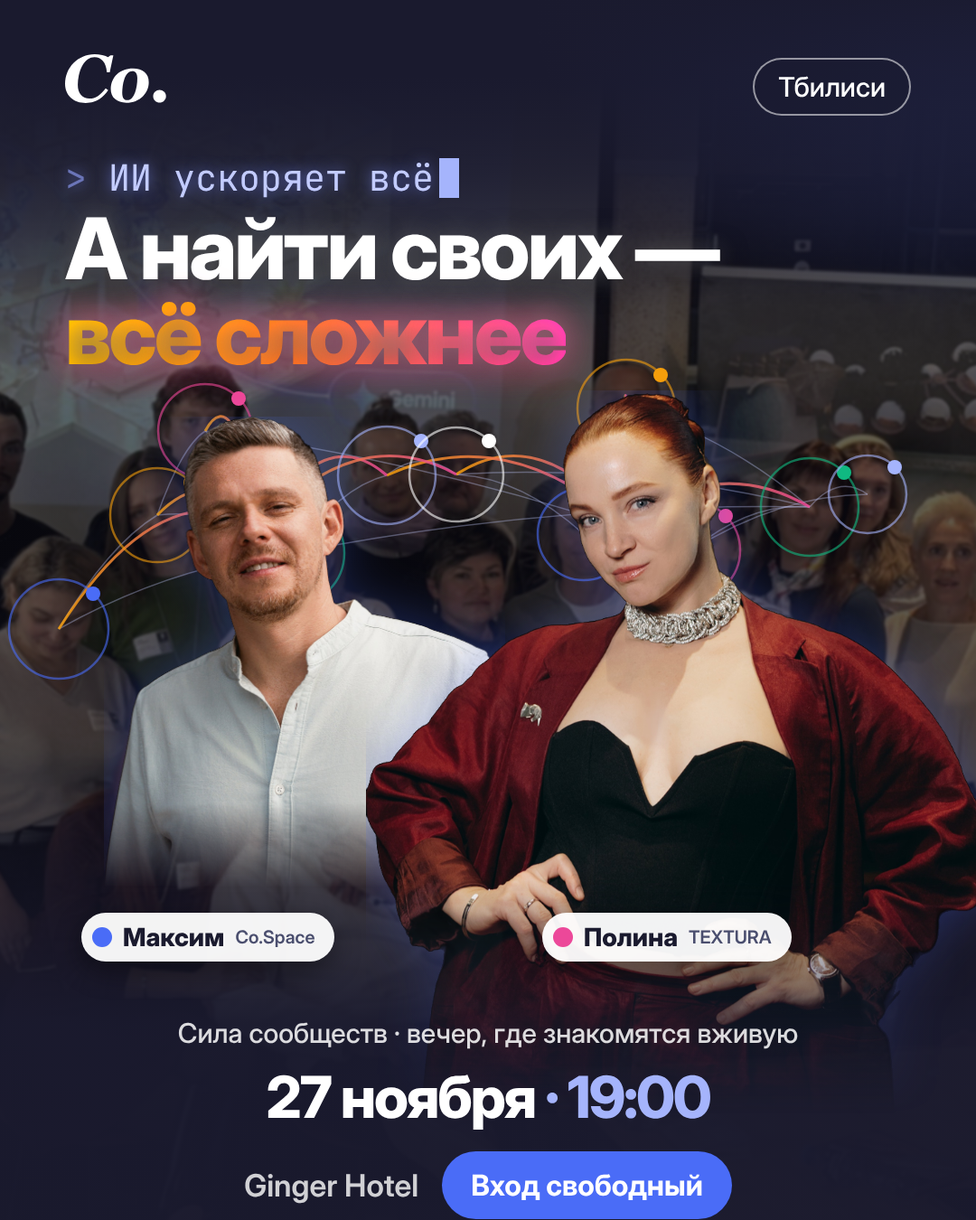
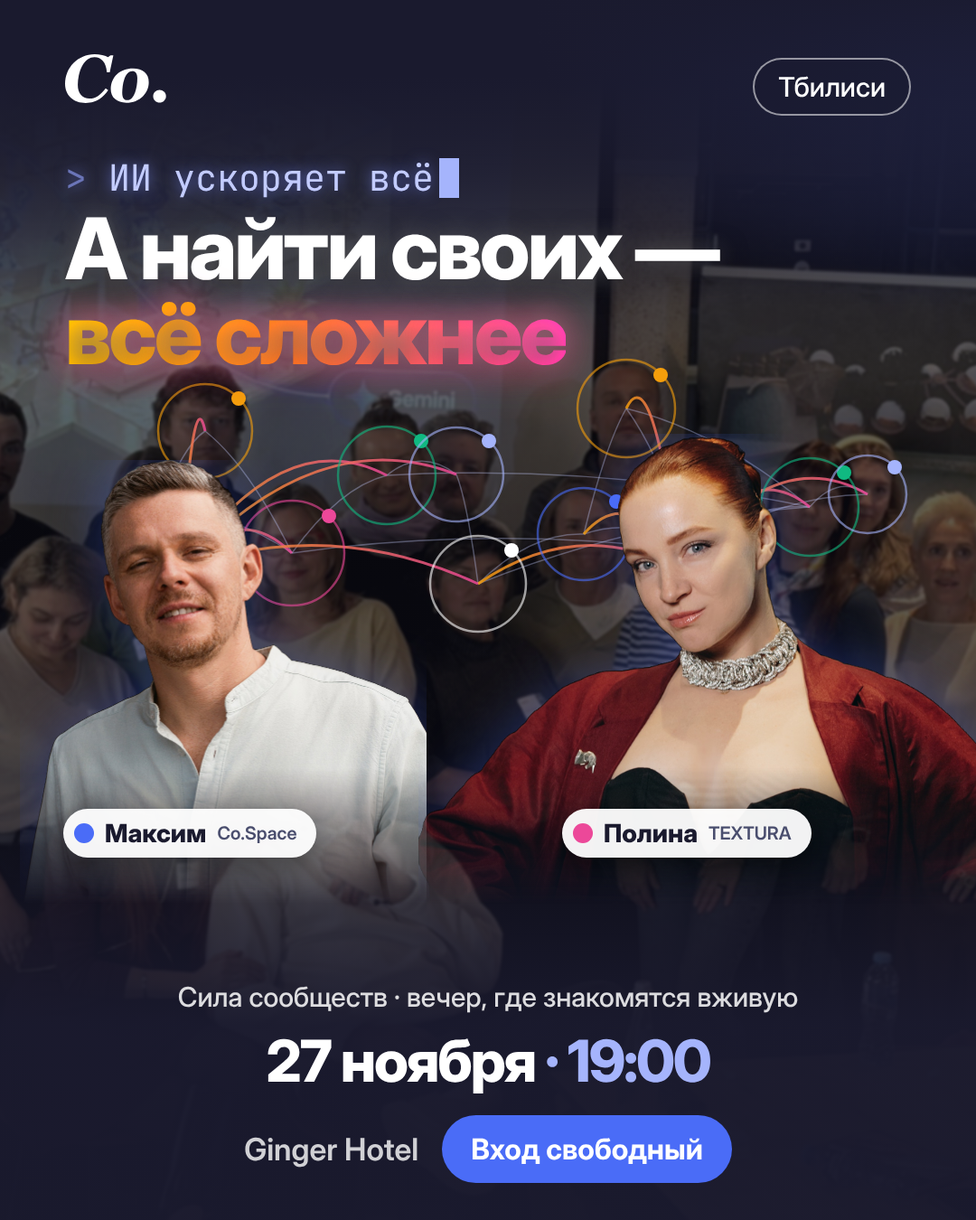
Афиша v3: Полина и Максим рядом на одном уровне, одинаковое затухание
Claude-Session: https://claude.ai/code/session_01EUhV7vaX3V2s8FuVCAhgM5

Changed region(s): [[0.0306, 0.3111, 1.0, 1.0]]

diff --git a/creatives/src/poster/poster3-4x5.html b/creatives/src/poster/poster3-4x5.html
@@ -21,7 +21,7 @@ h1 em{font-style:normal;background:linear-gradient(90deg,#FFC21A 0%,#FF7A2F 45%,
  padding:10px 22px 10px 12px;font-size:28px;font-weight:800;box-shadow:0 10px 30px rgba(0,0,0,.4)}
 .name i{width:22px;height:22px;border-radius:50%;display:block}
 .name small{font-size:20px;font-weight:600;color:#4A4E6E}
-.info{position:absolute;left:0;right:0;top:1125px;text-align:center}
+.info{position:absolute;left:0;right:0;top:1085px;text-align:center}
 .lead{font-size:30px;color:rgba(255,255,255,.85);font-weight:500;margin-bottom:14px}
 .date{font-size:64px;font-weight:800;letter-spacing:-2px}
 .date span{color:#A5B4FC}
@@ -29,10 +29,10 @@ h1 em{font-style:normal;background:linear-gradient(90deg,#FFC21A 0%,#FF7A2F 45%,
 .place{font-size:34px;color:rgba(255,255,255,.8);font-weight:600}
 .cta{background:#4A6CF7;border-radius:44px;padding:18px 32px;font-size:32px;font-weight:700}
 </style></head><body><img class="bg" src="group.src.jpg"><div class="shade"></div>
-<svg class="net" width="1080" height="1350" viewBox="0 0 1080 1350"><defs><linearGradient id="gl" x1="0" x2="1"><stop offset="0" stop-color="#F59E0B"/><stop offset="1" stop-color="#EC4899"/></linearGradient></defs><path d="M65,696 Q120,603 174,570" stroke="#C7CEFF" stroke-width="1.5" fill="none" opacity=".35"/><path d="M896,561 Q928,524 960,547" stroke="#C7CEFF" stroke-width="1.5" fill="none" opacity=".35"/><path d="M174,570 Q201,494 227,477" stroke="#C7CEFF" stroke-width="1.5" fill="none" opacity=".35"/><path d="M323,612 Q376,539 428,526" stroke="#C7CEFF" stroke-width="1.5" fill="none" opacity=".35"/><path d="M646,591 Q706,570 765,609" stroke="#C7CEFF" stroke-width="1.5" fill="none" opacity=".35"/><path d="M65,696 Q194,624 323,612" stroke="#C7CEFF" stroke-width="1.5" fill="none" opacity=".35"/><path d="M765,609 Q862,548 960,547" stroke="#C7CEFF" stroke-width="1.5" fill="none" opacity=".35"/><path d="M227,477 Q275,515 323,612" stroke="#C7CEFF" stroke-width="1.5" fill="none" opacity=".35"/><path d="M646,591 Q670,492 693,452" stroke="#C7CEFF" stroke-width="1.5" fill="none" opacity=".35"/><path d="M428,526 Q466,495 505,525" stroke="#C7CEFF" stroke-width="1.5" fill="none" opacity=".35"/><path d="M765,609 Q831,555 896,561" stroke="#C7CEFF" stroke-width="1.5" fill="none" opacity=".35"/><path d="M323,612 Q610,556 896,561" stroke="#C7CEFF" stroke-width="1.5" fill="none" opacity=".35"/><path d="M505,525 Q576,528 646,591" stroke="#C7CEFF" stroke-width="1.5" fill="none" opacity=".35"/><path d="M693,452 Q795,477 896,561" stroke="#C7CEFF" stroke-width="1.5" fill="none" opacity=".35"/><path d="M505,525 Q700,513 896,561" stroke="#C7CEFF" stroke-width="1.5" fill="none" opacity=".35"/><path d="M174,570 Q249,561 323,612" stroke="#C7CEFF" stroke-width="1.5" fill="none" opacity=".35"/><path d="M693,452 Q729,501 765,609" stroke="#C7CEFF" stroke-width="1.5" fill="none" opacity=".35"/><path d="M227,477 Q496,513 765,609" stroke="#C7CEFF" stroke-width="1.5" fill="none" opacity=".35"/><path d="M690,580 Q668,520 646,591" stroke="url(#gl)" stroke-width="3" fill="none" opacity=".85"/><path d="M690,580 Q728,520 765,609" stroke="url(#gl)" stroke-width="3" fill="none" opacity=".85"/><path d="M690,580 Q691,392 693,452" stroke="url(#gl)" stroke-width="3" fill="none" opacity=".85"/><path d="M690,580 Q597,465 505,525" stroke="url(#gl)" stroke-width="3" fill="none" opacity=".85"/><path d="M690,580 Q793,501 896,561" stroke="url(#gl)" stroke-width="3" fill="none" opacity=".85"/><path d="M690,580 Q559,466 428,526" stroke="url(#gl)" stroke-width="3" fill="none" opacity=".85"/><path d="M290,580 Q307,520 323,612" stroke="url(#gl)" stroke-width="3" fill="none" opacity=".85"/><path d="M290,580 Q232,510 174,570" stroke="url(#gl)" stroke-width="3" fill="none" opacity=".85"/><path d="M290,580 Q259,417 227,477" stroke="url(#gl)" stroke-width="3" fill="none" opacity=".85"/><path d="M290,580 Q359,466 428,526" stroke="url(#gl)" stroke-width="3" fill="none" opacity=".85"/><path d="M290,580 Q397,465 505,525" stroke="url(#gl)" stroke-width="3" fill="none" opacity=".85"/><path d="M290,580 Q177,520 65,696" stroke="url(#gl)" stroke-width="3" fill="none" opacity=".85"/><circle cx="65" cy="696" r="55" fill="none" stroke="#4A6CF7" stroke-width="2.5" opacity=".6"/><circle cx="103" cy="657" r="8" fill="#4A6CF7"/><circle cx="174" cy="570" r="52" fill="none" stroke="#F59E0B" stroke-width="2.5" opacity=".6"/><circle cx="211" cy="534" r="8" fill="#F59E0B"/><circle cx="227" cy="477" r="52" fill="none" stroke="#EC4899" stroke-width="2.5" opacity=".6"/><circle cx="264" cy="441" r="8" fill="#EC4899"/><circle cx="323" cy="612" r="58" fill="none" stroke="#10B981" stroke-width="2.5" opacity=".6"/><circle cx="364" cy="571" r="8" fill="#10B981"/><circle cx="428" cy="526" r="54" fill="none" stroke="#A5B4FC" stroke-width="2.5" opacity=".6"/><circle cx="466" cy="488" r="8" fill="#A5B4FC"/><circle cx="505" cy="525" r="52" fill="none" stroke="#FFFFFF" stroke-width="2.5" opacity=".6"/><circle cx="541" cy="488" r="8" fill="#FFFFFF"/><circle cx="646" cy="591" r="51" fill="none" stroke="#4A6CF7" stroke-width="2.5" opacity=".6"/><circle cx="682" cy="555" r="8" fill="#4A6CF7"/><circle cx="693" cy="452" r="54" fill="none" stroke="#F59E0B" stroke-width="2.5" opacity=".6"/><circle cx="731" cy="415" r="8" fill="#F59E0B"/><circle cx="765" cy="609" r="54" fill="none" stroke="#EC4899" stroke-width="2.5" opacity=".6"/><circle cx="803" cy="571" r="8" fill="#EC4899"/><circle cx="896" cy="561" r="54" fill="none" stroke="#10B981" stroke-width="2.5" opacity=".6"/><circle cx="934" cy="523" r="8" fill="#10B981"/><circle cx="960" cy="547" r="43" fill="none" stroke="#A5B4FC" stroke-width="2.5" opacity=".6"/><circle cx="990" cy="517" r="8" fill="#A5B4FC"/></svg>
-<div class="person" style="left:115px;top:461px;height:521px;-webkit-mask-image:linear-gradient(180deg,#000 82%,transparent 100%)"><img src="max_cut.png"></div><div class="person" style="left:405px;top:432px;height:870px;"><img src="polina_cut.png"></div>
-<div class="name" style="left:600px;top:1010px"><i style="background:#EC4899"></i>Полина <small>TEXTURA</small></div>
-<div class="name" style="left:90px;top:1010px"><i style="background:#4A6CF7"></i>Максим <small>Co.Space</small></div>
+<svg class="net" width="1080" height="1350" viewBox="0 0 1080 1350"><defs><linearGradient id="gl" x1="0" x2="1"><stop offset="0" stop-color="#F59E0B"/><stop offset="1" stop-color="#EC4899"/></linearGradient></defs><path d="M174,570 Q201,494 227,477" stroke="#C7CEFF" stroke-width="1.5" fill="none" opacity=".35"/><path d="M896,561 Q928,524 960,547" stroke="#C7CEFF" stroke-width="1.5" fill="none" opacity=".35"/><path d="M227,477 Q275,515 323,612" stroke="#C7CEFF" stroke-width="1.5" fill="none" opacity=".35"/><path d="M428,526 Q466,495 505,525" stroke="#C7CEFF" stroke-width="1.5" fill="none" opacity=".35"/><path d="M646,591 Q706,570 765,609" stroke="#C7CEFF" stroke-width="1.5" fill="none" opacity=".35"/><path d="M765,609 Q862,548 960,547" stroke="#C7CEFF" stroke-width="1.5" fill="none" opacity=".35"/><path d="M323,612 Q376,539 428,526" stroke="#C7CEFF" stroke-width="1.5" fill="none" opacity=".35"/><path d="M646,591 Q670,492 693,452" stroke="#C7CEFF" stroke-width="1.5" fill="none" opacity=".35"/><path d="M174,570 Q249,561 323,612" stroke="#C7CEFF" stroke-width="1.5" fill="none" opacity=".35"/><path d="M505,525 Q517,555 529,646" stroke="#C7CEFF" stroke-width="1.5" fill="none" opacity=".35"/><path d="M765,609 Q831,555 896,561" stroke="#C7CEFF" stroke-width="1.5" fill="none" opacity=".35"/><path d="M529,646 Q587,589 646,591" stroke="#C7CEFF" stroke-width="1.5" fill="none" opacity=".35"/><path d="M428,526 Q662,513 896,561" stroke="#C7CEFF" stroke-width="1.5" fill="none" opacity=".35"/><path d="M693,452 Q795,477 896,561" stroke="#C7CEFF" stroke-width="1.5" fill="none" opacity=".35"/><path d="M529,646 Q712,573 896,561" stroke="#C7CEFF" stroke-width="1.5" fill="none" opacity=".35"/><path d="M693,452 Q729,501 765,609" stroke="#C7CEFF" stroke-width="1.5" fill="none" opacity=".35"/><path d="M323,612 Q544,581 765,609" stroke="#C7CEFF" stroke-width="1.5" fill="none" opacity=".35"/><path d="M752,630 Q759,549 765,609" stroke="url(#gl)" stroke-width="3" fill="none" opacity=".85"/><path d="M752,630 Q699,531 646,591" stroke="url(#gl)" stroke-width="3" fill="none" opacity=".85"/><path d="M752,630 Q824,501 896,561" stroke="url(#gl)" stroke-width="3" fill="none" opacity=".85"/><path d="M752,630 Q722,392 693,452" stroke="url(#gl)" stroke-width="3" fill="none" opacity=".85"/><path d="M752,630 Q856,487 960,547" stroke="url(#gl)" stroke-width="3" fill="none" opacity=".85"/><path d="M752,630 Q640,570 529,646" stroke="url(#gl)" stroke-width="3" fill="none" opacity=".85"/><path d="M200,630 Q187,510 174,570" stroke="url(#gl)" stroke-width="3" fill="none" opacity=".85"/><path d="M200,630 Q262,552 323,612" stroke="url(#gl)" stroke-width="3" fill="none" opacity=".85"/><path d="M200,630 Q214,417 227,477" stroke="url(#gl)" stroke-width="3" fill="none" opacity=".85"/><path d="M200,630 Q314,466 428,526" stroke="url(#gl)" stroke-width="3" fill="none" opacity=".85"/><path d="M200,630 Q352,465 505,525" stroke="url(#gl)" stroke-width="3" fill="none" opacity=".85"/><path d="M200,630 Q364,570 529,646" stroke="url(#gl)" stroke-width="3" fill="none" opacity=".85"/><circle cx="174" cy="570" r="52" fill="none" stroke="#4A6CF7" stroke-width="2.5" opacity=".6"/><circle cx="211" cy="534" r="8" fill="#4A6CF7"/><circle cx="227" cy="477" r="52" fill="none" stroke="#F59E0B" stroke-width="2.5" opacity=".6"/><circle cx="264" cy="441" r="8" fill="#F59E0B"/><circle cx="323" cy="612" r="58" fill="none" stroke="#EC4899" stroke-width="2.5" opacity=".6"/><circle cx="364" cy="571" r="8" fill="#EC4899"/><circle cx="428" cy="526" r="54" fill="none" stroke="#10B981" stroke-width="2.5" opacity=".6"/><circle cx="466" cy="488" r="8" fill="#10B981"/><circle cx="505" cy="525" r="52" fill="none" stroke="#A5B4FC" stroke-width="2.5" opacity=".6"/><circle cx="541" cy="488" r="8" fill="#A5B4FC"/><circle cx="529" cy="646" r="53" fill="none" stroke="#FFFFFF" stroke-width="2.5" opacity=".6"/><circle cx="566" cy="609" r="8" fill="#FFFFFF"/><circle cx="646" cy="591" r="51" fill="none" stroke="#4A6CF7" stroke-width="2.5" opacity=".6"/><circle cx="682" cy="555" r="8" fill="#4A6CF7"/><circle cx="693" cy="452" r="54" fill="none" stroke="#F59E0B" stroke-width="2.5" opacity=".6"/><circle cx="731" cy="415" r="8" fill="#F59E0B"/><circle cx="765" cy="609" r="54" fill="none" stroke="#EC4899" stroke-width="2.5" opacity=".6"/><circle cx="803" cy="571" r="8" fill="#EC4899"/><circle cx="896" cy="561" r="54" fill="none" stroke="#10B981" stroke-width="2.5" opacity=".6"/><circle cx="934" cy="523" r="8" fill="#10B981"/><circle cx="960" cy="547" r="43" fill="none" stroke="#A5B4FC" stroke-width="2.5" opacity=".6"/><circle cx="990" cy="517" r="8" fill="#A5B4FC"/></svg>
+<div class="person" style="left:22px;top:509px;height:528px;-webkit-mask-image:linear-gradient(180deg,#000 64.6%,transparent 93.0%)"><img src="max_cut.png"></div><div class="person" style="left:463px;top:480px;height:880px;-webkit-mask-image:linear-gradient(180deg,#000 42.0%,transparent 59.1%)"><img src="polina_cut.png"></div>
+<div class="name" style="left:622px;top:895px"><i style="background:#EC4899"></i>Полина <small>TEXTURA</small></div>
+<div class="name" style="left:70px;top:895px"><i style="background:#4A6CF7"></i>Максим <small>Co.Space</small></div>
 <div class="logo"><svg width="77" height="38" viewBox="0 0 77 38" fill="none" xmlns="http://www.w3.org/2000/svg">
 <path d="M15.6912 37.0447C13.4308 37.0447 11.3353 36.7143 9.40484 36.0537C7.47438 35.3761 5.80789 34.4098 4.40543 33.1545C3.01945 31.8988 1.93872 30.371 1.16323 28.5701C0.387743 26.7532 0 24.7047 0 22.425C0 19.402 0.552742 16.5524 1.65822 13.8763C2.78021 11.2001 4.35593 8.81309 6.38539 6.71513C8.33235 4.69976 10.7083 3.08086 13.5133 1.85843C16.3347 0.619476 19.3294 0 22.4974 0C24.4114 0 26.35 0.231271 28.3134 0.693814C30.2771 1.15636 31.7455 1.69323 32.7189 2.30445L34.5753 0.941605H36.7283L33.9811 13.7772H31.8034C31.4733 10.0273 30.4751 7.17767 28.8084 5.22837C27.1585 3.26258 25.0301 2.27967 22.4231 2.27967C20.5092 2.27967 18.7437 2.8496 17.1267 3.98942C15.5098 5.12927 14.0743 6.88031 12.8203 9.24259C11.7973 11.1919 11.0136 13.455 10.4691 16.0321C9.9411 18.5925 9.67709 20.9961 9.67709 23.2428C9.67709 26.5468 10.4773 29.1154 12.0778 30.9491C13.6783 32.7828 15.8232 33.6994 18.5127 33.6994C20.8722 33.6994 23.0584 33.0387 25.0713 31.7171C27.0844 30.3957 29.023 28.4875 30.8875 25.9932L32.7933 27.2816C31.9848 28.5372 31.0196 29.776 29.8976 30.9985C28.7755 32.2044 27.4968 33.2536 26.0613 34.1455C24.5598 35.0871 23.0089 35.8056 21.4084 36.3014C19.8244 36.7969 17.9187 37.0447 15.6912 37.0447Z" fill="white"/>
 <path d="M63.6817 21.2605C63.6817 23.342 63.2858 25.3326 62.4936 27.2323C61.7017 29.132 60.5797 30.784 59.1278 32.188C57.5603 33.6914 55.7205 34.856 53.6085 35.6819C51.5131 36.4914 49.1536 36.8962 46.5303 36.8962C43.0159 36.8962 40.178 35.9628 38.0163 34.0962C35.8548 32.213 34.7741 29.6523 34.7741 26.4146C34.7741 24.2175 35.1783 22.1774 35.9869 20.2942C36.8119 18.411 37.9587 16.7673 39.4271 15.3631C40.8792 13.992 42.6611 12.91 44.7731 12.1171C46.8851 11.3076 49.1701 10.9029 51.6285 10.9029C55.3575 10.9029 58.2946 11.8197 60.4395 13.6534C62.6009 15.4705 63.6817 18.0062 63.6817 21.2605ZM54.9699 18.4605C54.9699 16.5277 54.6398 15.1071 53.9799 14.1985C53.3363 13.29 52.396 12.8357 51.1585 12.8357C49.8879 12.8357 48.7246 13.3478 47.6686 14.372C46.6129 15.3797 45.7547 16.8664 45.0947 18.8322C44.5172 20.4676 44.1048 22.2434 43.8573 24.1597C43.6098 26.0594 43.4862 27.7609 43.4862 29.2641C43.4862 31.263 43.816 32.7167 44.4761 33.6254C45.136 34.5172 46.0929 34.9633 47.3469 34.9633C48.6999 34.9633 49.8713 34.4099 50.8613 33.3032C51.8513 32.1964 52.6351 30.8335 53.2127 29.2146C53.7902 27.6287 54.2274 25.8777 54.5243 23.9615C54.8213 22.0287 54.9699 20.195 54.9699 18.4605Z" fill="white"/>

diff --git a/creatives/src/poster/poster3-9x16.html b/creatives/src/poster/poster3-9x16.html
@@ -21,7 +21,7 @@ h1 em{font-style:normal;background:linear-gradient(90deg,#FFC21A 0%,#FF7A2F 45%,
  padding:10px 22px 10px 12px;font-size:28px;font-weight:800;box-shadow:0 10px 30px rgba(0,0,0,.4)}
 .name i{width:22px;height:22px;border-radius:50%;display:block}
 .name small{font-size:20px;font-weight:600;color:#4A4E6E}
-.info{position:absolute;left:0;right:0;top:1460px;text-align:center}
+.info{position:absolute;left:0;right:0;top:1290px;text-align:center}
 .lead{font-size:30px;color:rgba(255,255,255,.85);font-weight:500;margin-bottom:14px}
 .date{font-size:64px;font-weight:800;letter-spacing:-2px}
 .date span{color:#A5B4FC}
@@ -29,10 +29,10 @@ h1 em{font-style:normal;background:linear-gradient(90deg,#FFC21A 0%,#FF7A2F 45%,
 .place{font-size:34px;color:rgba(255,255,255,.8);font-weight:600}
 .cta{background:#4A6CF7;border-radius:44px;padding:18px 32px;font-size:32px;font-weight:700}
 </style></head><body><img class="bg" src="group.src.jpg"><div class="shade"></div>
-<svg class="net" width="1080" height="1920" viewBox="0 0 1080 1920"><defs><linearGradient id="gl" x1="0" x2="1"><stop offset="0" stop-color="#F59E0B"/><stop offset="1" stop-color="#EC4899"/></linearGradient></defs><path d="M166,816 Q194,737 222,718" stroke="#C7CEFF" stroke-width="1.5" fill="none" opacity=".35"/><path d="M433,769 Q680,758 926,806" stroke="#C7CEFF" stroke-width="1.5" fill="none" opacity=".35"/><path d="M222,718 Q272,759 323,860" stroke="#C7CEFF" stroke-width="1.5" fill="none" opacity=".35"/><path d="M433,769 Q474,738 514,768" stroke="#C7CEFF" stroke-width="1.5" fill="none" opacity=".35"/><path d="M663,838 Q726,818 788,857" stroke="#C7CEFF" stroke-width="1.5" fill="none" opacity=".35"/><path d="M323,860 Q378,784 433,769" stroke="#C7CEFF" stroke-width="1.5" fill="none" opacity=".35"/><path d="M712,692 Q750,744 788,857" stroke="#C7CEFF" stroke-width="1.5" fill="none" opacity=".35"/><path d="M166,816 Q244,808 323,860" stroke="#C7CEFF" stroke-width="1.5" fill="none" opacity=".35"/><path d="M514,768 Q588,773 663,838" stroke="#C7CEFF" stroke-width="1.5" fill="none" opacity=".35"/><path d="M926,806 Q960,769 993,792" stroke="#C7CEFF" stroke-width="1.5" fill="none" opacity=".35"/><path d="M663,838 Q688,735 712,692" stroke="#C7CEFF" stroke-width="1.5" fill="none" opacity=".35"/><path d="M788,857 Q890,794 993,792" stroke="#C7CEFF" stroke-width="1.5" fill="none" opacity=".35"/><path d="M323,860 Q493,819 663,838" stroke="#C7CEFF" stroke-width="1.5" fill="none" opacity=".35"/><path d="M222,718 Q608,725 993,792" stroke="#C7CEFF" stroke-width="1.5" fill="none" opacity=".35"/><path d="M788,857 Q857,802 926,806" stroke="#C7CEFF" stroke-width="1.5" fill="none" opacity=".35"/><path d="M700,830 Q682,770 663,838" stroke="url(#gl)" stroke-width="3" fill="none" opacity=".85"/><path d="M700,830 Q744,770 788,857" stroke="url(#gl)" stroke-width="3" fill="none" opacity=".85"/><path d="M700,830 Q706,632 712,692" stroke="url(#gl)" stroke-width="3" fill="none" opacity=".85"/><path d="M700,830 Q607,708 514,768" stroke="url(#gl)" stroke-width="3" fill="none" opacity=".85"/><path d="M700,830 Q813,746 926,806" stroke="url(#gl)" stroke-width="3" fill="none" opacity=".85"/><path d="M700,830 Q566,709 433,769" stroke="url(#gl)" stroke-width="3" fill="none" opacity=".85"/><path d="M280,830 Q302,770 323,860" stroke="url(#gl)" stroke-width="3" fill="none" opacity=".85"/><path d="M280,830 Q223,756 166,816" stroke="url(#gl)" stroke-width="3" fill="none" opacity=".85"/><path d="M280,830 Q251,658 222,718" stroke="url(#gl)" stroke-width="3" fill="none" opacity=".85"/><path d="M280,830 Q356,709 433,769" stroke="url(#gl)" stroke-width="3" fill="none" opacity=".85"/><path d="M280,830 Q397,708 514,768" stroke="url(#gl)" stroke-width="3" fill="none" opacity=".85"/><path d="M280,830 Q472,770 663,838" stroke="url(#gl)" stroke-width="3" fill="none" opacity=".85"/><circle cx="166" cy="816" r="55" fill="none" stroke="#4A6CF7" stroke-width="2.5" opacity=".6"/><circle cx="204" cy="778" r="8" fill="#4A6CF7"/><circle cx="222" cy="718" r="55" fill="none" stroke="#F59E0B" stroke-width="2.5" opacity=".6"/><circle cx="260" cy="680" r="8" fill="#F59E0B"/><circle cx="323" cy="860" r="61" fill="none" stroke="#EC4899" stroke-width="2.5" opacity=".6"/><circle cx="366" cy="817" r="8" fill="#EC4899"/><circle cx="433" cy="769" r="57" fill="none" stroke="#10B981" stroke-width="2.5" opacity=".6"/><circle cx="473" cy="729" r="8" fill="#10B981"/><circle cx="514" cy="768" r="55" fill="none" stroke="#A5B4FC" stroke-width="2.5" opacity=".6"/><circle cx="552" cy="730" r="8" fill="#A5B4FC"/><circle cx="663" cy="838" r="54" fill="none" stroke="#FFFFFF" stroke-width="2.5" opacity=".6"/><circle cx="701" cy="800" r="8" fill="#FFFFFF"/><circle cx="712" cy="692" r="57" fill="none" stroke="#4A6CF7" stroke-width="2.5" opacity=".6"/><circle cx="752" cy="652" r="8" fill="#4A6CF7"/><circle cx="788" cy="857" r="57" fill="none" stroke="#F59E0B" stroke-width="2.5" opacity=".6"/><circle cx="828" cy="817" r="8" fill="#F59E0B"/><circle cx="926" cy="806" r="56" fill="none" stroke="#EC4899" stroke-width="2.5" opacity=".6"/><circle cx="965" cy="767" r="8" fill="#EC4899"/><circle cx="993" cy="792" r="45" fill="none" stroke="#10B981" stroke-width="2.5" opacity=".6"/><circle cx="1024" cy="760" r="8" fill="#10B981"/></svg>
-<div class="person" style="left:89px;top:700px;height:567px;-webkit-mask-image:linear-gradient(180deg,#000 82%,transparent 100%)"><img src="max_cut.png"></div><div class="person" style="left:390px;top:669px;height:946px;"><img src="polina_cut.png"></div>
-<div class="name" style="left:600px;top:1340px"><i style="background:#EC4899"></i>Полина <small>TEXTURA</small></div>
-<div class="name" style="left:70px;top:1340px"><i style="background:#4A6CF7"></i>Максим <small>Co.Space</small></div>
+<svg class="net" width="1080" height="1920" viewBox="0 0 1080 1920"><defs><linearGradient id="gl" x1="0" x2="1"><stop offset="0" stop-color="#F59E0B"/><stop offset="1" stop-color="#EC4899"/></linearGradient></defs><path d="M166,816 Q194,737 222,718" stroke="#C7CEFF" stroke-width="1.5" fill="none" opacity=".35"/><path d="M926,806 Q960,769 993,792" stroke="#C7CEFF" stroke-width="1.5" fill="none" opacity=".35"/><path d="M222,718 Q272,759 323,860" stroke="#C7CEFF" stroke-width="1.5" fill="none" opacity=".35"/><path d="M433,769 Q474,738 514,768" stroke="#C7CEFF" stroke-width="1.5" fill="none" opacity=".35"/><path d="M663,838 Q726,818 788,857" stroke="#C7CEFF" stroke-width="1.5" fill="none" opacity=".35"/><path d="M788,857 Q890,794 993,792" stroke="#C7CEFF" stroke-width="1.5" fill="none" opacity=".35"/><path d="M323,860 Q378,784 433,769" stroke="#C7CEFF" stroke-width="1.5" fill="none" opacity=".35"/><path d="M663,838 Q688,735 712,692" stroke="#C7CEFF" stroke-width="1.5" fill="none" opacity=".35"/><path d="M166,816 Q244,808 323,860" stroke="#C7CEFF" stroke-width="1.5" fill="none" opacity=".35"/><path d="M514,768 Q526,802 539,896" stroke="#C7CEFF" stroke-width="1.5" fill="none" opacity=".35"/><path d="M788,857 Q857,802 926,806" stroke="#C7CEFF" stroke-width="1.5" fill="none" opacity=".35"/><path d="M539,896 Q601,837 663,838" stroke="#C7CEFF" stroke-width="1.5" fill="none" opacity=".35"/><path d="M433,769 Q680,758 926,806" stroke="#C7CEFF" stroke-width="1.5" fill="none" opacity=".35"/><path d="M712,692 Q819,719 926,806" stroke="#C7CEFF" stroke-width="1.5" fill="none" opacity=".35"/><path d="M539,896 Q732,821 926,806" stroke="#C7CEFF" stroke-width="1.5" fill="none" opacity=".35"/><path d="M712,692 Q750,744 788,857" stroke="#C7CEFF" stroke-width="1.5" fill="none" opacity=".35"/><path d="M323,860 Q556,828 788,857" stroke="#C7CEFF" stroke-width="1.5" fill="none" opacity=".35"/><path d="M755,870 Q772,797 788,857" stroke="url(#gl)" stroke-width="3" fill="none" opacity=".85"/><path d="M755,870 Q709,778 663,838" stroke="url(#gl)" stroke-width="3" fill="none" opacity=".85"/><path d="M755,870 Q840,746 926,806" stroke="url(#gl)" stroke-width="3" fill="none" opacity=".85"/><path d="M755,870 Q734,632 712,692" stroke="url(#gl)" stroke-width="3" fill="none" opacity=".85"/><path d="M755,870 Q647,810 539,896" stroke="url(#gl)" stroke-width="3" fill="none" opacity=".85"/><path d="M755,870 Q874,732 993,792" stroke="url(#gl)" stroke-width="3" fill="none" opacity=".85"/><path d="M205,870 Q186,756 166,816" stroke="url(#gl)" stroke-width="3" fill="none" opacity=".85"/><path d="M205,870 Q264,800 323,860" stroke="url(#gl)" stroke-width="3" fill="none" opacity=".85"/><path d="M205,870 Q214,658 222,718" stroke="url(#gl)" stroke-width="3" fill="none" opacity=".85"/><path d="M205,870 Q319,709 433,769" stroke="url(#gl)" stroke-width="3" fill="none" opacity=".85"/><path d="M205,870 Q360,708 514,768" stroke="url(#gl)" stroke-width="3" fill="none" opacity=".85"/><path d="M205,870 Q372,810 539,896" stroke="url(#gl)" stroke-width="3" fill="none" opacity=".85"/><circle cx="166" cy="816" r="55" fill="none" stroke="#4A6CF7" stroke-width="2.5" opacity=".6"/><circle cx="204" cy="778" r="8" fill="#4A6CF7"/><circle cx="222" cy="718" r="55" fill="none" stroke="#F59E0B" stroke-width="2.5" opacity=".6"/><circle cx="260" cy="680" r="8" fill="#F59E0B"/><circle cx="323" cy="860" r="61" fill="none" stroke="#EC4899" stroke-width="2.5" opacity=".6"/><circle cx="366" cy="817" r="8" fill="#EC4899"/><circle cx="433" cy="769" r="57" fill="none" stroke="#10B981" stroke-width="2.5" opacity=".6"/><circle cx="473" cy="729" r="8" fill="#10B981"/><circle cx="514" cy="768" r="55" fill="none" stroke="#A5B4FC" stroke-width="2.5" opacity=".6"/><circle cx="552" cy="730" r="8" fill="#A5B4FC"/><circle cx="539" cy="896" r="56" fill="none" stroke="#FFFFFF" stroke-width="2.5" opacity=".6"/><circle cx="578" cy="857" r="8" fill="#FFFFFF"/><circle cx="663" cy="838" r="54" fill="none" stroke="#4A6CF7" stroke-width="2.5" opacity=".6"/><circle cx="701" cy="800" r="8" fill="#4A6CF7"/><circle cx="712" cy="692" r="57" fill="none" stroke="#F59E0B" stroke-width="2.5" opacity=".6"/><circle cx="752" cy="652" r="8" fill="#F59E0B"/><circle cx="788" cy="857" r="57" fill="none" stroke="#EC4899" stroke-width="2.5" opacity=".6"/><circle cx="828" cy="817" r="8" fill="#EC4899"/><circle cx="926" cy="806" r="56" fill="none" stroke="#10B981" stroke-width="2.5" opacity=".6"/><circle cx="965" cy="767" r="8" fill="#10B981"/><circle cx="993" cy="792" r="45" fill="none" stroke="#A5B4FC" stroke-width="2.5" opacity=".6"/><circle cx="1024" cy="760" r="8" fill="#A5B4FC"/></svg>
+<div class="person" style="left:21px;top:745px;height:546px;-webkit-mask-image:linear-gradient(180deg,#000 63.2%,transparent 90.7%)"><img src="max_cut.png"></div><div class="person" style="left:456px;top:715px;height:910px;-webkit-mask-image:linear-gradient(180deg,#000 41.2%,transparent 57.7%)"><img src="polina_cut.png"></div>
+<div class="name" style="left:625px;top:1135px"><i style="background:#EC4899"></i>Полина <small>TEXTURA</small></div>
+<div class="name" style="left:75px;top:1135px"><i style="background:#4A6CF7"></i>Максим <small>Co.Space</small></div>
 <div class="logo"><svg width="77" height="38" viewBox="0 0 77 38" fill="none" xmlns="http://www.w3.org/2000/svg">
 <path d="M15.6912 37.0447C13.4308 37.0447 11.3353 36.7143 9.40484 36.0537C7.47438 35.3761 5.80789 34.4098 4.40543 33.1545C3.01945 31.8988 1.93872 30.371 1.16323 28.5701C0.387743 26.7532 0 24.7047 0 22.425C0 19.402 0.552742 16.5524 1.65822 13.8763C2.78021 11.2001 4.35593 8.81309 6.38539 6.71513C8.33235 4.69976 10.7083 3.08086 13.5133 1.85843C16.3347 0.619476 19.3294 0 22.4974 0C24.4114 0 26.35 0.231271 28.3134 0.693814C30.2771 1.15636 31.7455 1.69323 32.7189 2.30445L34.5753 0.941605H36.7283L33.9811 13.7772H31.8034C31.4733 10.0273 30.4751 7.17767 28.8084 5.22837C27.1585 3.26258 25.0301 2.27967 22.4231 2.27967C20.5092 2.27967 18.7437 2.8496 17.1267 3.98942C15.5098 5.12927 14.0743 6.88031 12.8203 9.24259C11.7973 11.1919 11.0136 13.455 10.4691 16.0321C9.9411 18.5925 9.67709 20.9961 9.67709 23.2428C9.67709 26.5468 10.4773 29.1154 12.0778 30.9491C13.6783 32.7828 15.8232 33.6994 18.5127 33.6994C20.8722 33.6994 23.0584 33.0387 25.0713 31.7171C27.0844 30.3957 29.023 28.4875 30.8875 25.9932L32.7933 27.2816C31.9848 28.5372 31.0196 29.776 29.8976 30.9985C28.7755 32.2044 27.4968 33.2536 26.0613 34.1455C24.5598 35.0871 23.0089 35.8056 21.4084 36.3014C19.8244 36.7969 17.9187 37.0447 15.6912 37.0447Z" fill="white"/>
 <path d="M63.6817 21.2605C63.6817 23.342 63.2858 25.3326 62.4936 27.2323C61.7017 29.132 60.5797 30.784 59.1278 32.188C57.5603 33.6914 55.7205 34.856 53.6085 35.6819C51.5131 36.4914 49.1536 36.8962 46.5303 36.8962C43.0159 36.8962 40.178 35.9628 38.0163 34.0962C35.8548 32.213 34.7741 29.6523 34.7741 26.4146C34.7741 24.2175 35.1783 22.1774 35.9869 20.2942C36.8119 18.411 37.9587 16.7673 39.4271 15.3631C40.8792 13.992 42.6611 12.91 44.7731 12.1171C46.8851 11.3076 49.1701 10.9029 51.6285 10.9029C55.3575 10.9029 58.2946 11.8197 60.4395 13.6534C62.6009 15.4705 63.6817 18.0062 63.6817 21.2605ZM54.9699 18.4605C54.9699 16.5277 54.6398 15.1071 53.9799 14.1985C53.3363 13.29 52.396 12.8357 51.1585 12.8357C49.8879 12.8357 48.7246 13.3478 47.6686 14.372C46.6129 15.3797 45.7547 16.8664 45.0947 18.8322C44.5172 20.4676 44.1048 22.2434 43.8573 24.1597C43.6098 26.0594 43.4862 27.7609 43.4862 29.2641C43.4862 31.263 43.816 32.7167 44.4761 33.6254C45.136 34.5172 46.0929 34.9633 47.3469 34.9633C48.6999 34.9633 49.8713 34.4099 50.8613 33.3032C51.8513 32.1964 52.6351 30.8335 53.2127 29.2146C53.7902 27.6287 54.2274 25.8777 54.5243 23.9615C54.8213 22.0287 54.9699 20.195 54.9699 18.4605Z" fill="white"/>

diff --git a/creatives/src/poster/build_poster3.py b/creatives/src/poster/build_poster3.py
@@ -12,11 +12,11 @@ COLORS = ["#4A6CF7", "#F59E0B", "#EC4899", "#10B981", "#A5B4FC", "#FFFFFF"]
 FMT = {
     # person: left, top, h (высота вырезки)
     "4x5": dict(W=1080, H=1350, s=0.95, ox=430, oy=-80, top=60, mono=170, h1=228, h1s=94,
-                pol=dict(left=405,top=432,h=870), mx=dict(left=115,top=461,h=521), info=1125,
-                polname=(600, 1010), maxname=(90, 1010)),
+                pol=dict(left=463,top=480,h=880,fy=630), mx=dict(left=22,top=509,h=528,fy=630), info=1085,
+                polname=(622, 895), maxname=(70, 895)),
     "9x16": dict(W=1080, H=1920, s=1.0, ox=470, oy=-300, top=270, mono=390, h1=455, h1s=96,
-                 pol=dict(left=390,top=669,h=946), mx=dict(left=89,top=700,h=567), info=1460,
-                 polname=(600, 1340), maxname=(70, 1340)),
+                pol=dict(left=456,top=715,h=910,fy=870), mx=dict(left=21,top=745,h=546,fy=870), info=1290,
+                polname=(625, 1135), maxname=(75, 1135)),
 }
 PCUT = (933, 1146, .403, .170)   # w, h, центр головы x/y в долях
 MCUT = (902, 1059, .395, .229)
@@ -106,7 +106,9 @@ def net_svg(L):
 
 
 def person(img, pos):
-    m = "-webkit-mask-image:linear-gradient(180deg,#000 82%,transparent 100%)" if "max" in img else ""
+    a = (pos["fy"] + 220 - pos["top"]) / pos["h"] * 100
+    b = (pos["fy"] + 370 - pos["top"]) / pos["h"] * 100
+    m = f"-webkit-mask-image:linear-gradient(180deg,#000 {a:.1f}%,transparent {b:.1f}%)"
     return f'<div class="person" style="left:{pos["left"]}px;top:{pos["top"]}px;height:{pos["h"]}px;{m}"><img src="{img}"></div>'
 
 
